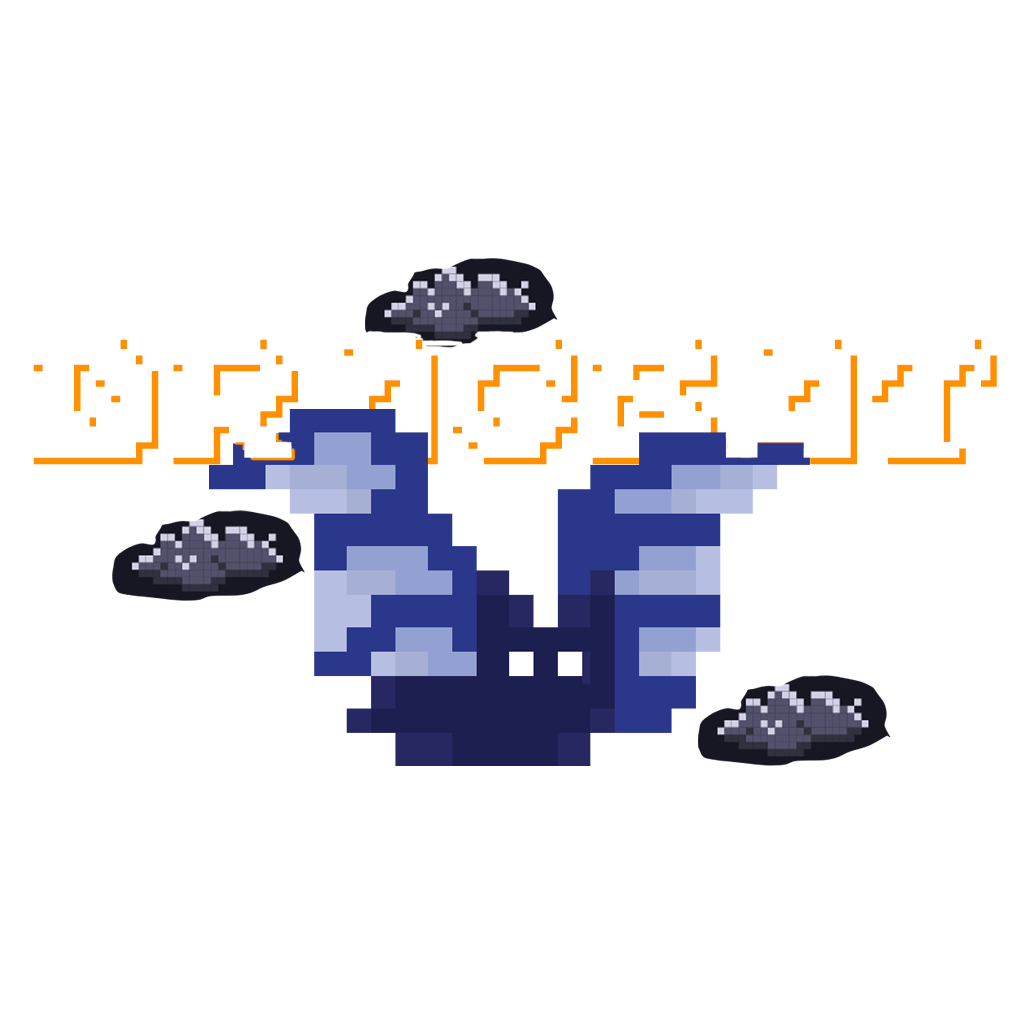
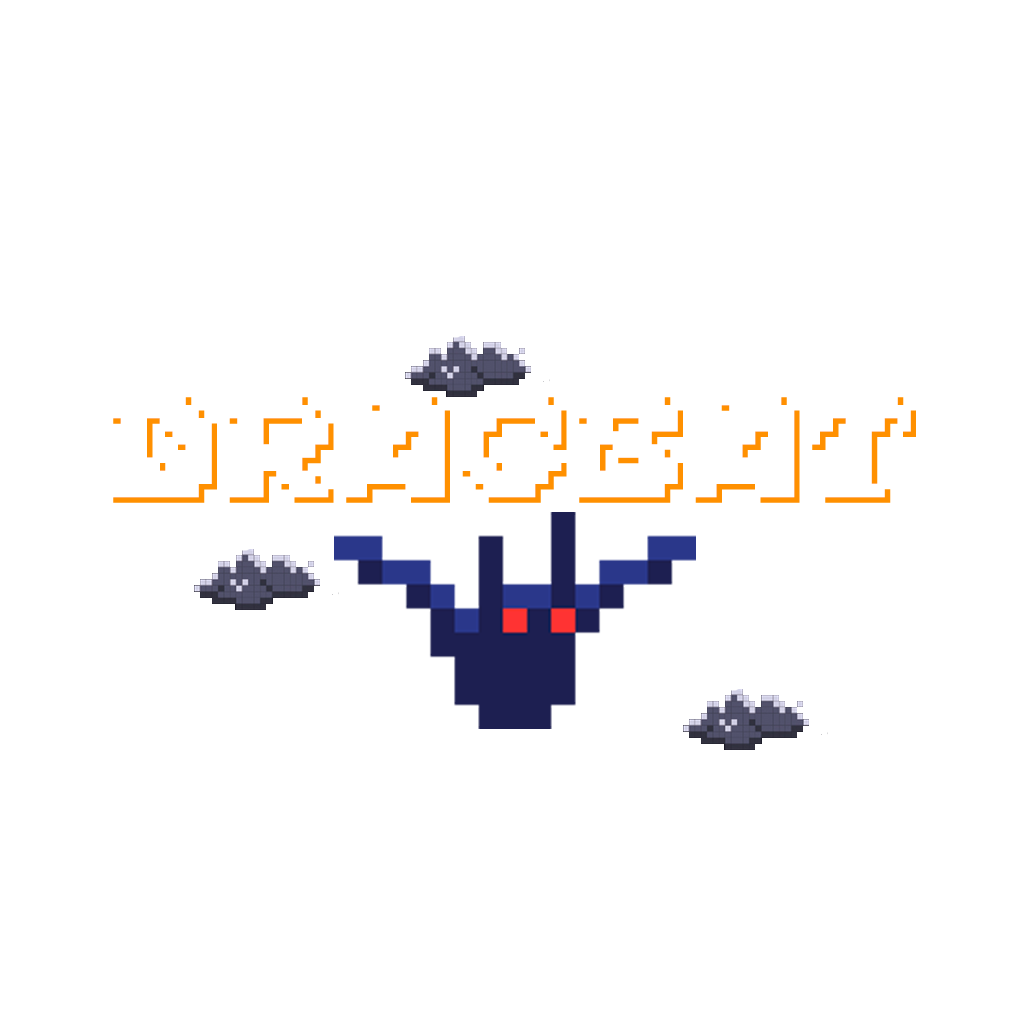
phsyics improvements, new assets

Changed region(s): [[0.0312, 0.25, 0.9375, 0.75], [0.9375, 0.3438, 1.0, 0.375], [0.6875, 0.3438, 0.7188, 0.375]]

diff --git a/App.js b/App.js
@@ -6,11 +6,12 @@ import Button from 'react-native-flat-button'
 import entities from './entities';
 import Physics from './physics';
 import bgImage from './assets/background.jpg';
-
+import skull from './assets/skull.gif';
 
 const styles = StyleSheet.create({
   container: {
     flex: 1,
+    fontFamily: 'Arial',
     backgroundColor: '#171723'
   },
   image: {
@@ -27,8 +28,30 @@ const styles = StyleSheet.create({
   },
   gameOver: {
     color: '#ffffff',
-    fontSize: 60
-  }
+    fontSize: 60,
+    fontWeight: 'bold',
+    textShadowColor: 'black',
+    textShadowRadius: 5,
+  },
+  points: {
+    textAlign: 'center',
+    fontSize: 35,
+    fontWeight: 'bold',
+    margin: 20,
+    color: 'white',
+    backgroundColor: 'black',
+    padding: 5,
+    borderRadius: 8,
+    height: 40,
+    lineHeight: 37,
+    flex: 1,
+    position: 'absolute',
+    top: 10,
+    zIndex: 1
+  },
+  skull: {
+    height: 50,
+  },
 })
 
 export default function App() {
@@ -43,7 +66,7 @@ export default function App() {
   return (
     <View style={styles.container}>
       <ImageBackground source={ bgImage } resizeMode="cover" style={styles.image}>
-        <Text style={{ textAlign: 'center', fontSize: 40, fontWeight: 'bold', margin: 20, color: 'white', flex: 1, position: 'absolute',  top: 10, zIndex: 1 }}>{currentPoints}</Text>
+        <Text style={styles.points}>{currentPoints}</Text>
         <GameEngine
           ref={(ref) => { setGameEngine(ref) }}
           systems={[Physics]}
@@ -70,7 +93,10 @@ export default function App() {
         {!running ?
           <View style={{ flex: 1, justifyContent: 'center', alignItems: 'center' }}>
             { gameOver &&
-              <Text style={styles.gameOver}>GAME OVER</Text>
+              <View>
+                 <ImageBackground source={ skull } resizeMode="contain" style={styles.skull}></ImageBackground>
+                <Text style={styles.gameOver}>GAME OVER</Text>
+              </View>
             }
             <Button
             type="info"

diff --git a/physics.js b/physics.js
@@ -1,7 +1,6 @@
 import Matter from "matter-js";
 import { getPipeSizePosPair } from "./utils/random";
-
-import { Dimensions } from 'react-native'
+import { Dimensions } from 'react-native';
 
 const windowHeight = Dimensions.get('window').height
 const windowWidth = Dimensions.get('window').width
@@ -13,7 +12,7 @@ const Physics = (entities, { touches, time, dispatch }) => {
         .forEach(t => {
             Matter.Body.setVelocity(entities.Bat .body, {
                 x: 0,
-                y: -6
+                y: -8
             })
         })
 
@@ -39,7 +38,6 @@ const Physics = (entities, { touches, time, dispatch }) => {
         Matter.Body.translate(entities[`ObstacleTop${index}`].body, { x: -3, y: 0 })
         Matter.Body.translate(entities[`ObstacleBottom${index}`].body, { x: -3, y: 0 })
     }
-
 
     Matter.Events.on(engine, 'collisionStart', (event) => {
         dispatch({ type: 'game_over' })

diff --git a/entities/index.js b/entities/index.js
@@ -22,7 +22,7 @@ export default restart => {
     return {
         physics: { engine, world },
 
-        Bat: Bat(world, 'white', { x: 50, y: 300 }, { height: 65, width: 65 }),
+        Bat: Bat(world, 'white', { x: 50, y: 300 }, { height: 45, width: 45 }),
 
         ObstacleTop1: Obstacle(world, 'ObstacleTop1', 'red', pipeSizePosA.pipeTop.pos, pipeSizePosA.pipeTop.size),
         ObstacleBottom1: Obstacle(world, 'ObstacleBottom1', 'blue', pipeSizePosA.pipeBottom.pos, pipeSizePosA.pipeBottom.size),

diff --git a/components/Bat.js b/components/Bat.js
@@ -1,7 +1,7 @@
 import Matter from 'matter-js'
 import React from 'react'
 import { View, ImageBackground, StyleSheet } from 'react-native'
-import bat from '.././assets/bat.gif';
+import bat from '.././assets/dracbat.gif';
 
 const styles = StyleSheet.create({
     image: {
